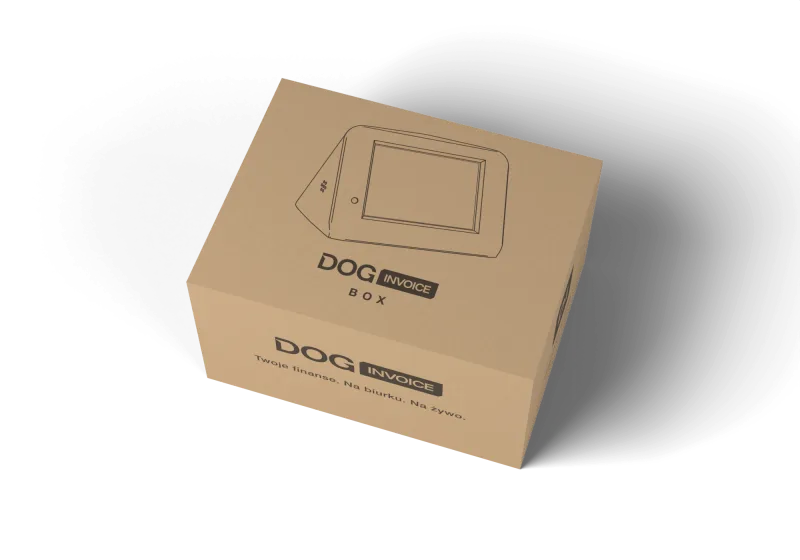
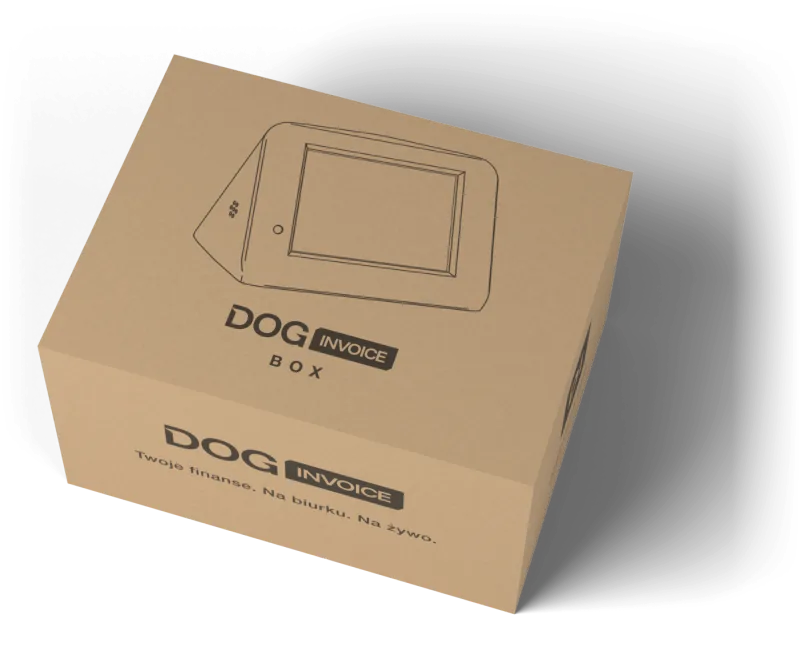
Box page: enlarge carton photo, drop card hover zoom

diff --git a/src/scss/_box.scss b/src/scss/_box.scss
@@ -752,23 +752,18 @@ body.page-box #smartsupp-widget-container {
   background: $color-white;
   @include box-cut;
 
-  // najechanie: karta lekko się unosi, zdjęcie przybliża. `translate`
-  // i `scale` nie kolidują z transformacją, którą ustawia AOS.
+  // najechanie: karta lekko się unosi. `translate` nie koliduje
+  // z transformacją, którą ustawia AOS.
   @media (hover: hover) {
     transition: translate 0.35s ease;
 
     &:hover {
       translate: 0 -5px;
-
-      .box-card-zoom {
-        scale: 1.05;
-      }
     }
   }
 
   &-zoom {
     position: relative;
-    transition: scale 0.6s cubic-bezier(0.2, 0.7, 0.2, 1);
   }
 
   &-pic {
@@ -1457,7 +1452,6 @@ body.page-box #smartsupp-widget-container {
   }
 
   .box-card,
-  .box-card-zoom,
   .box-who-item::before,
   .box-who-item-title {
     transition: none;

diff --git a/src/css/index.css b/src/css/index.css
@@ -2520,13 +2520,9 @@ body.page-box #smartsupp-widget-container {
   .box-card:hover {
     translate: 0 -5px;
   }
-  .box-card:hover .box-card-zoom {
-    scale: 1.05;
-  }
 }
 .box-card-zoom {
   position: relative;
-  transition: scale 0.6s cubic-bezier(0.2, 0.7, 0.2, 1);
 }
 .box-card-pic {
   position: relative;
@@ -3151,7 +3147,6 @@ body.page-box #smartsupp-widget-container {
     animation: none;
   }
   .box-card,
-  .box-card-zoom,
   .box-who-item::before,
   .box-who-item-title {
     transition: none;

diff --git a/template-parts/box/buy.php b/template-parts/box/buy.php
@@ -17,11 +17,11 @@ $img     = $args['assets'] . '/images/box';
     <img
       class="box-buy-photo"
       src="<?php echo esc_url($img . '/doginvoicebox-karton-800.webp'); ?>"
-      srcset="<?php echo esc_url($img . '/doginvoicebox-karton-800.webp'); ?> 800w, <?php echo esc_url($img . '/doginvoicebox-karton-1600.webp'); ?> 1600w"
+      srcset="<?php echo esc_url($img . '/doginvoicebox-karton-800.webp'); ?> 800w, <?php echo esc_url($img . '/doginvoicebox-karton-1400.webp'); ?> 1400w"
       sizes="(min-width: 768px) 45vw, 100vw"
       alt="Doginvoice Box z pulpitem na ekranie, widziany z góry"
-      width="1600"
-      height="1120"
+      width="1400"
+      height="1150"
       loading="lazy"
       data-aos="fade-up" />
     <div class="box-buy-content" data-aos="fade-up" data-aos-delay="100">
